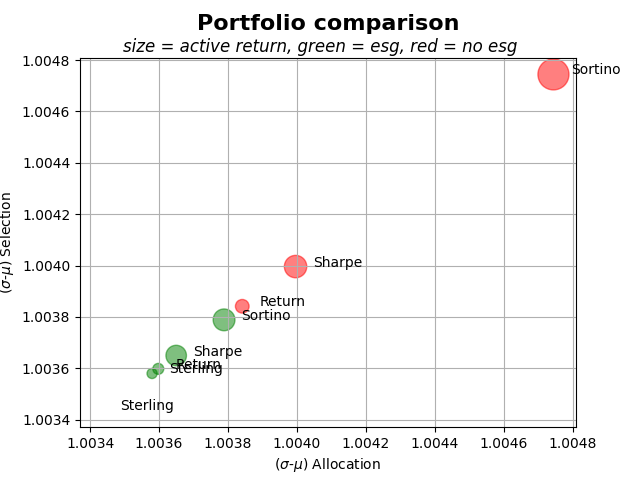
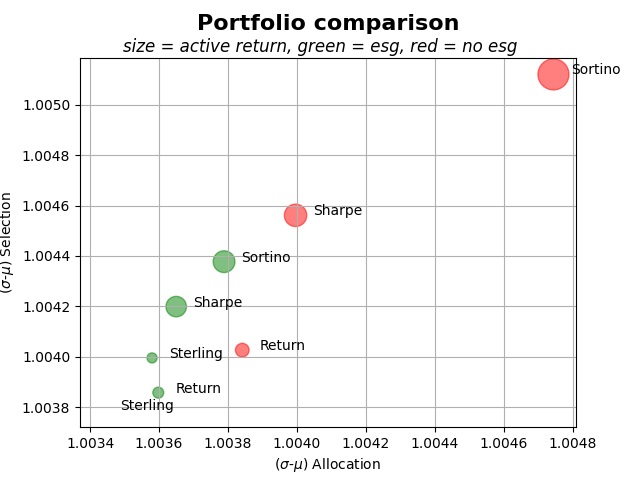
add

diff --git a/src/Result/OverviewResults.py b/src/Result/OverviewResults.py
@@ -21,7 +21,7 @@ class ResultConveyor():
         act_port = []
 
         for item in self.analysis_list:
-            sel_eff = np.std([np.prod(item.exper_analysis["sector_allocation"][i]+1) for i in range(self.n_optimizations)]) - np.mean(item.exper_analysis["sector_allocation"]-1) 
+            sel_eff = np.std([np.prod(item.exper_analysis["sector_selection"][i]+1) for i in range(self.n_optimizations)]) - np.mean(item.exper_analysis["sector_allocation"]-1) 
             all_eff = np.std([np.prod(item.exper_analysis["sector_allocation"][i]+1) for i in range(self.n_optimizations)]) - np.mean(item.exper_analysis["sector_allocation"]-1)
             act_ret = item.exper_analysis["active_return"][-1]
             sel_port.append(sel_eff)
